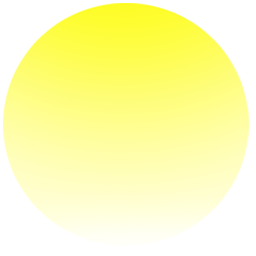
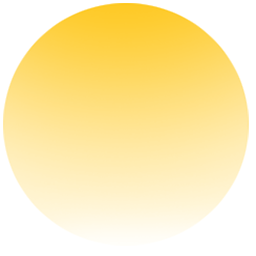
tweak the sun image for sky background

diff --git a/src/subsystem/sky-background.cpp b/src/subsystem/sky-background.cpp
@@ -158,7 +158,7 @@ namespace shadowman
         // sun
         m_sunSprite.setTexture(m_sunTexture, true);
         util::setOriginToCenter(m_sunSprite);
-        const float sunScale{ t_context.layout.scaleBasedOnResolution(t_context, 0.75f) };
+        const float sunScale{ t_context.layout.scaleBasedOnResolution(t_context, 0.95f) };
         m_sunSprite.scale({ sunScale, sunScale });
 
         if (t_context.random.boolean())
